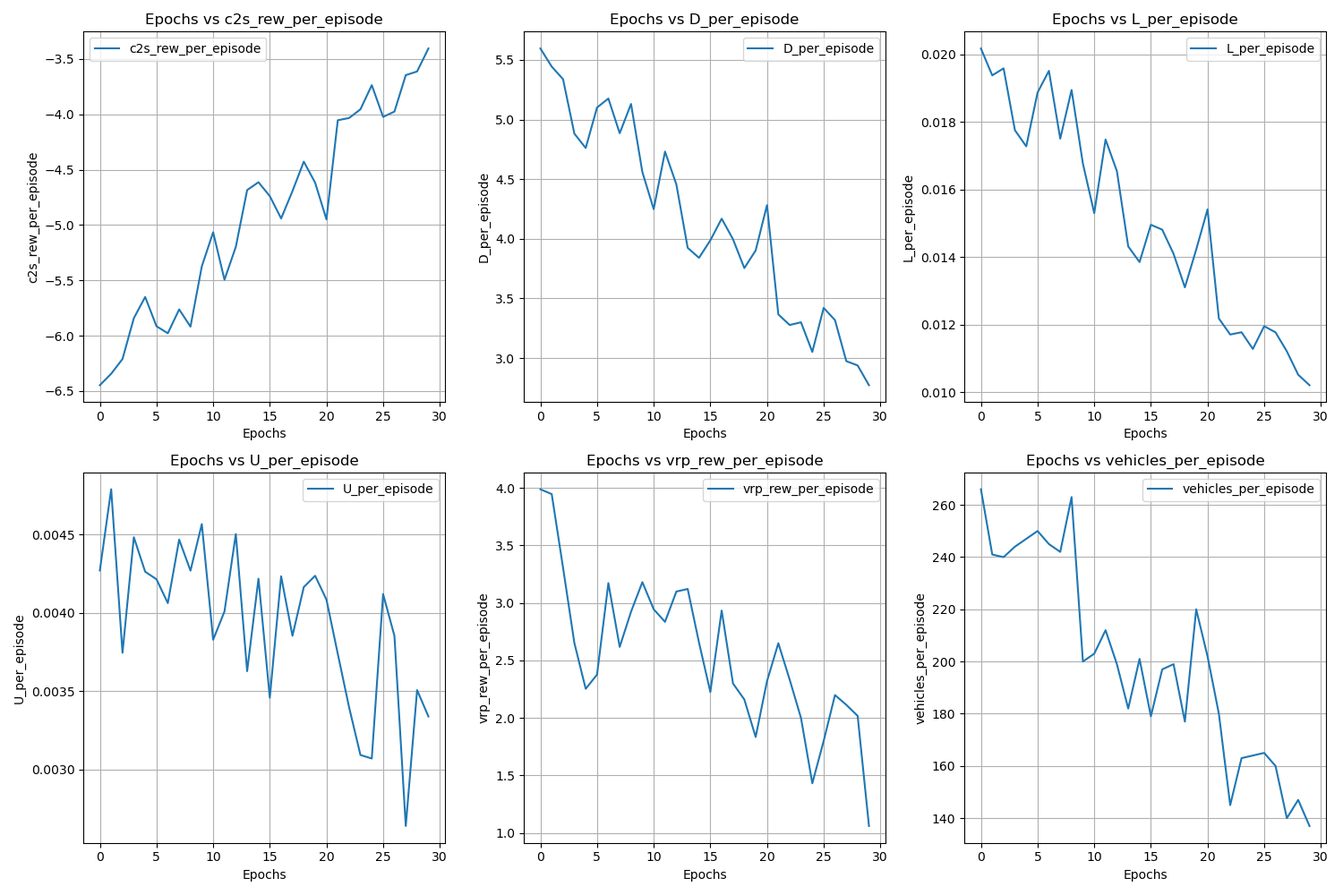
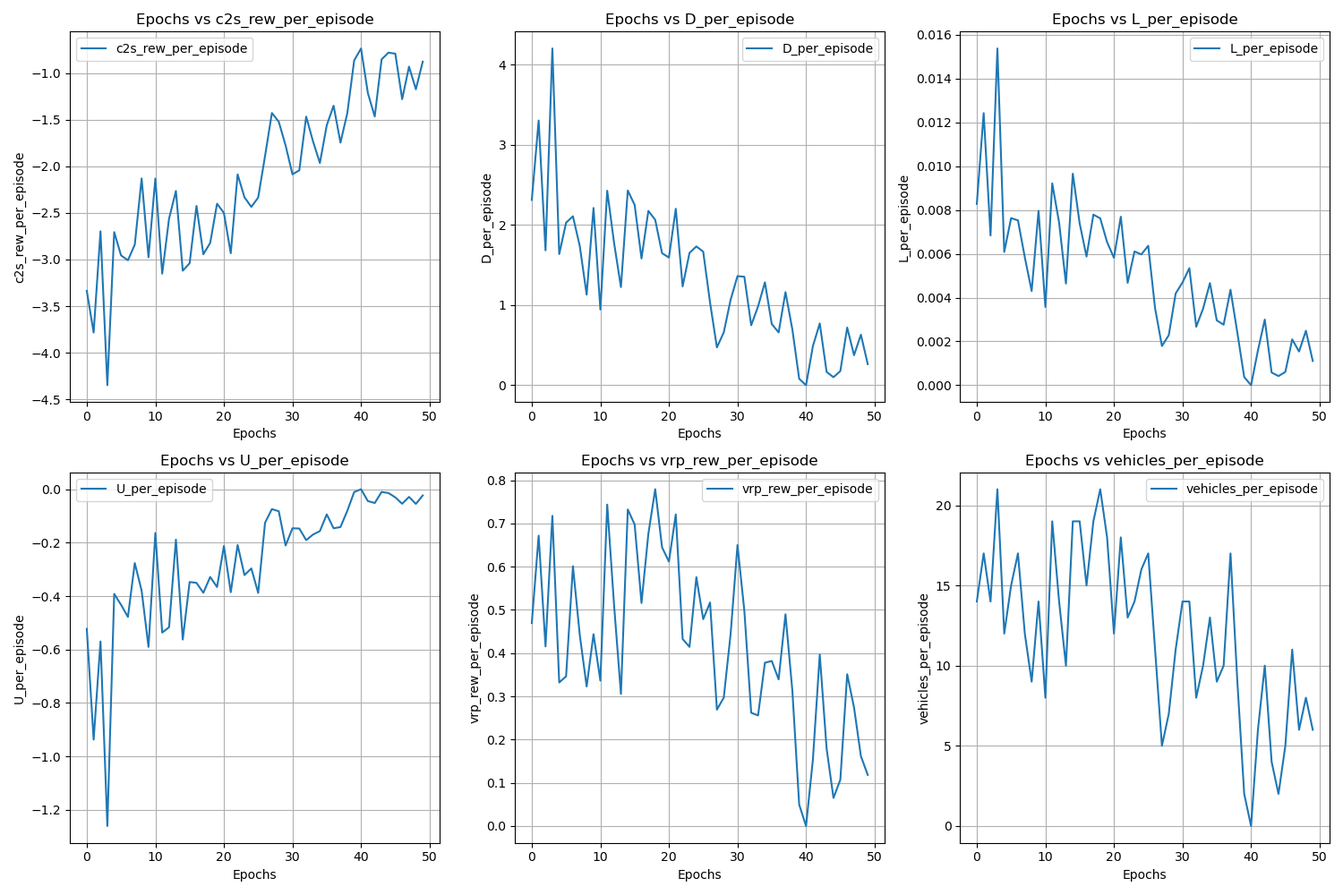
final

diff --git a/plot.py b/plot.py
@@ -1,0 +1,204 @@
+import matplotlib.pyplot as plt 
+import numpy 
+
+print("C2SH + VRPH")
+c2s_rew_per_episode = [-3.162630367619766, -3.2407676963637306, -3.0009457475327523, -3.1005535906284676, -3.1873993156752274, -2.995300601486081, -3.330222843246431, -3.095142324591123, -3.6133420755821577, -3.3577389008092893, -3.0096312562949437, -3.3936995252404594, -3.2246473267117963, -3.5164929230481605, -3.011219225377335, -3.305955325962298, -3.286128951226231, -3.3399424267894333, -3.240532132851378, -3.0577021384056122, -3.256329733691943, -3.405320990057903, -3.1290757320448224, -3.0318756235876374, -2.939793536497425, -3.560493628564977, -3.158396104697333, -3.1395430828238293, -3.309162286798654, -3.2395302056371316, -3.30637624863013, -3.1116976955692803, -2.9633513801924893, -3.173072943398223, -3.0649085990182545, -3.3857446713557318, -3.2728191885552773, -3.3061896406597824, -3.053017254985527, -3.312056858091136, -3.501115639939241, -3.0427370311665474, -3.09631489165307, -3.2306651221410285, -3.215846596042011, -3.163615889349381, -3.1479560857775946, -3.224693474639956, -3.0517348988910986, -3.4793669971031327, -3.519891949713456, -3.7205900379259247, -3.212280123798762, -3.205458565909891, -3.2823253996755506, -3.1852958009662293, -3.277517114281109, -3.0280069717311244, -3.36991299247783, -2.7999749138900927, -3.405470496727942, -3.2415967514374615, -3.2656222927193577, -3.5487494807589797, -3.0416751715725105, -3.4584761292397337, -3.2420898599112107, -3.1891143965415036, -3.226257153948134, -3.5413039739368095, -2.959373893845223, -3.4798620407664216, -3.518767533201962, -3.1603491933355152, -3.4016343542006546, -3.1135754456033813, -3.115949733855231, -3.614661491594746, -3.2847710242020502, -3.3133120187200737, -3.231484900089691, -3.2503187768847397, -3.1854385202981867, -3.1749190128765625, -2.943739813107796, -3.097180643041202, -3.029876574639335, -3.089315180314453, -2.936109897741627, -3.21727350377398, -3.125730823673346, -3.2275308005024628, -3.2434646040076713, -3.2719823106084944, -3.0802607606961114, -3.0845506845317865, -3.2678928368238394, -3.037849392675513, -3.5749487207924417, -3.3518220888801364, -3.398145173702514, -3.2164057551497818, -3.3605876793061333, -3.1071330852853003, -3.1909285523936544, -2.7710406679766906, -3.2430984396220794, -3.658772396310937, -3.247614360189714, -3.450655800490085, -3.0735188437128285, -3.118951682765243, -3.238133901474818, -3.251897101158714, -3.4245272655591235, -3.140831076211588, -3.5367601487022204, -3.269498265944607, -3.2541678308723383, -3.1705411588092063, -3.515348768476089, -3.2272652993206754, -3.2221127606409716, -3.2351614924047327, -3.110410066177699, -3.2795707801361638, -3.0521188729658433, -3.3544226210374988, -3.241335303063098, -3.07877203818081, -3.2879946004176466, -3.075647138791671, -3.3018647313895855, -3.3070252401336226, -3.397289105850245, -3.099114887314072, -2.9513423847410185, -3.2806969020368157, -3.4265727412641525, -3.323688033212865, -3.0895046284711087, -3.1981814140674087, -3.1843404422669743, -3.3354463748608856, -3.2726483006596196, -3.2833539010376724, -3.1469594788604978, -2.981882948126226, -3.1120196645364517, -2.848012063555627]
+D_per_episode = [2.3579900226261445, 2.471190721478164, 2.341752853374629, 2.4112738184883598, 2.4071641499787604, 2.3136784737777982, 2.511679108318298, 2.3460340548655934, 2.7204938674839627, 2.5387492337251247, 2.3405280285784804, 2.5882207019400827, 2.474820505700103, 2.6036947833366133, 2.215120976353625, 2.5397296581440676, 2.444546573053337, 2.447609945719332, 2.4370268348377015, 2.3923955320329124, 2.439308291426099, 2.4997498836189433, 2.399817137771752, 2.3005046068803687, 2.274186724546789, 2.6995153688580036, 2.348345192163319, 2.4315591335534936, 2.491769727649838, 2.4693756453087303, 2.4869406869622988, 2.3648614887047374, 2.2407744171203676, 2.316741262844392, 2.2750814098132244, 2.5398417438074756, 2.5181395374953612, 2.567574836180541, 2.349827117677945, 2.462072081162849, 2.7386233622319986, 2.2836909218847397, 2.41480132271185, 2.401783717178181, 2.5010924037425957, 2.3697799224158467, 2.424362807985148, 2.491218274332801, 2.3167194194193144, 2.6614457090019163, 2.725228706085193, 2.889324785709264, 2.486918357674201, 2.4575128790535676, 2.407723653575773, 2.3825131368320505, 2.572267157404702, 2.3229404316626168, 2.544213028678876, 2.1679859990494594, 2.5849968137316037, 2.4955591258078256, 2.33709868439797, 2.66014726518149, 2.3449330668593142, 2.5676431638905504, 2.4415381563662484, 2.426742234294575, 2.49839738926297, 2.6790836249797456, 2.286376275827415, 2.6266604794752264, 2.6562606462692733, 2.4024837659032023, 2.584371219663884, 2.2746528138049005, 2.39264889158448, 2.7431660681061567, 2.483681774704313, 2.5407180250479557, 2.506015751799432, 2.478438679630835, 2.4232766060849427, 2.411624291287974, 2.279748969087848, 2.428392262930503, 2.2568100530847532, 2.3837646767651632, 2.31732228877056, 2.4639220644720314, 2.378912957435368, 2.3731276849784955, 2.4289200058096503, 2.520505837453976, 2.3959950407305195, 2.4159234755304775, 2.46599012670768, 2.2440918710876616, 2.7492604656454334, 2.5087054324364493, 2.505768095723883, 2.429808121870719, 2.6038907709201466, 2.2894445434291226, 2.4239645151083966, 2.12313237999789, 2.463315878042631, 2.81408732780061, 2.4920429428253543, 2.6596919659048193, 2.3287565349477584, 2.3201811016196663, 2.4438699973034135, 2.509503731746262, 2.657769159489185, 2.336719119644439, 2.6783639750031494, 2.5024635363388876, 2.4750867702762727, 2.452413561321588, 2.7157105408875215, 2.4213157441497764, 2.476818417271306, 2.529638515947469, 2.3269681435441454, 2.5044906006846697, 2.3589625558351064, 2.6125838011382347, 2.428977046377359, 2.300392029694945, 2.463073569078941, 2.334812082932786, 2.557773681336477, 2.517222735389474, 2.5828823548708675, 2.3702848304087656, 2.2390559528798186, 2.540562688061441, 2.5934312974860547, 2.5301152916412737, 2.3191702019470037, 2.3851242760453064, 2.3366838335224145, 2.530591577614297, 2.5442737236454938, 2.514864416560465, 2.364630579322241, 2.2226114804785206, 2.3241734339536206, 2.1110687299041215]
+L_per_episode = [0.009826985465133383, 0.010305333558162062, 0.009636564375900946, 0.010077942059021945, 0.009934378373646968, 0.009585314668589133, 0.01037258240915483, 0.009798299819439072, 0.011110614246758684, 0.010647966944809104, 0.0096984890389258, 0.010536077577561268, 0.010317911257921284, 0.011042657118714749, 0.009057422801241997, 0.010211235076113118, 0.010301637546714756, 0.00984278777569641, 0.009861783726171077, 0.010103830960219166, 0.00993563434266774, 0.010297140843486794, 0.009745303842990615, 0.00965480913132293, 0.009325954430371406, 0.011499817409612666, 0.009644404731655967, 0.010071601316805028, 0.010368269984027824, 0.010104356916746667, 0.010440785189396066, 0.009834454064388874, 0.009136842307296465, 0.00937775494720225, 0.009208543802132336, 0.010621023877850926, 0.010487103541026593, 0.010472524732850126, 0.009726354707559733, 0.010552697518698554, 0.011213863514997256, 0.009145508254012849, 0.010050693214264644, 0.010116086937804648, 0.010484814810371109, 0.009679007982257902, 0.009952497752554666, 0.010134576499839164, 0.009424977483341054, 0.010886588720913614, 0.011220447065262122, 0.011959375335002211, 0.010549425674418928, 0.010072456220030121, 0.009942123073688847, 0.0098627139464264, 0.010933581491787595, 0.009538628385666614, 0.010537616917882969, 0.009226374358282514, 0.01076111660618289, 0.010409670696129057, 0.009979512139297745, 0.011253344492274404, 0.009639460022063636, 0.010589490950572012, 0.010105282996154449, 0.009905321083896503, 0.010107935662716838, 0.0112966718546922, 0.0096356292076279, 0.010914957185455583, 0.010614498279719836, 0.009810893348898954, 0.010649826613079155, 0.009330086372540044, 0.009937918712276365, 0.01098298007237494, 0.010316448454897523, 0.01069695974611299, 0.010020471720963518, 0.010029143233203868, 0.009836146073843071, 0.009788172792750294, 0.009142450841390308, 0.010215418837743729, 0.009365357172992592, 0.009918380382057404, 0.009539749922353832, 0.010514816272902412, 0.009603110891664561, 0.009993558754948922, 0.010127165881374058, 0.01046361843604461, 0.009987855289072893, 0.010209176830213941, 0.010106989141378172, 0.009004830342907, 0.01134067980236153, 0.010492460143753822, 0.010393271842471592, 0.010375246821826035, 0.01079049234985771, 0.009906283791663086, 0.009989927346932222, 0.008784794317634185, 0.010191531216814188, 0.01162356956390766, 0.010286772239034922, 0.010807422696371867, 0.009469641713783082, 0.009503334278919605, 0.009854471311181442, 0.010200913433840785, 0.010798169893193491, 0.009846990532666819, 0.011086956384769859, 0.010288143795739075, 0.010277399971481863, 0.00994130931633887, 0.011184455224583563, 0.009747462076262587, 0.010170499089234062, 0.01034710764218422, 0.009438617574949546, 0.010354033571282261, 0.009632843650672683, 0.01049996868853455, 0.009827682364257375, 0.009656425889455141, 0.009965904177252464, 0.009537606468554425, 0.010982494747354032, 0.010459430137882853, 0.010581052492772917, 0.009879073464331886, 0.009367980888610027, 0.010238372843745255, 0.010796232342848116, 0.010296660842404576, 0.009673856159756657, 0.009815874734732137, 0.009616533452192443, 0.010660401347490136, 0.010913610961307472, 0.010196404837633333, 0.009717813485716698, 0.009323404891343695, 0.009622133263508099, 0.00877738881311689]
+U_per_episode = [0.004243614931237728, 0.004693333333333343, 0.0038258736971183344, 0.0042401021711366595, 0.005823806321452596, 0.003634116192830661, 0.004306418219461703, 0.0034023285899094473, 0.005763688760806929, 0.004769759450171827, 0.004856230031948889, 0.004532019704433505, 0.004834307992202734, 0.005028089887640455, 0.005118110236220483, 0.0050136239782016395, 0.005281980742778551, 0.005827338129496412, 0.0055244755244755386, 0.004338235294117658, 0.0055677154582763405, 0.005513196480938428, 0.003918053777208712, 0.003881163084702912, 0.003962616822429911, 0.005708092485549142, 0.005553264604811004, 0.004188679245283022, 0.005277973258268834, 0.004390563564875499, 0.004496877168632894, 0.0045436893203883565, 0.004822784810126592, 0.004113283884018885, 0.0046714378659726795, 0.00493894165535957, 0.004303630363036308, 0.0052827586206896674, 0.004108910891089115, 0.004679665738161564, 0.00486600846262342, 0.004445893089960892, 0.004980842911877402, 0.004725568942436419, 0.004200000000000001, 0.003909090909090914, 0.004098573281452663, 0.005030425963488853, 0.004489003880983186, 0.005268292682926836, 0.0048743016759776586, 0.004837144837144845, 0.0045048543689320455, 0.004709719504240063, 0.005088589652728572, 0.004061869535978484, 0.004177545691906005, 0.005029163966299426, 0.004429160935350761, 0.004357272178636098, 0.00448924731182797, 0.005098305084745777, 0.004852411807055441, 0.005389657683903867, 0.003868159203980103, 0.005032537960954453, 0.00487316421895862, 0.004582524271844666, 0.004503916449086166, 0.004975404075896002, 0.004903064415259548, 0.00425326909841707, 0.005132997843278222, 0.0047831800262812165, 0.003919732441471578, 0.004920304920304926, 0.004510978043912176, 0.004894391842680269, 0.0049265220433869945, 0.004950495049504962, 0.00526675786593708, 0.00528043775649795, 0.005115970841616966, 0.0046953175112251526, 0.004630421502748934, 0.004372267332916932, 0.005112395632626851, 0.005263835263835271, 0.003987987987987993, 0.00398207426376441, 0.005439056356487554, 0.005134948096885818, 0.003941605839416059, 0.004138398914518325, 0.004616352201257867, 0.004591836734693884, 0.004467944481163257, 0.004762532981530353, 0.004890148830616587, 0.0049819494584837625, 0.0057305773342836855, 0.004345616264294799, 0.00438761776581427, 0.005362903225806463, 0.00540837336993824, 0.004715151515151527, 0.005071707953063894, 0.0049502133712660094, 0.004757475083056482, 0.0042498302783435206, 0.005240924092409246, 0.0044356955380577484, 0.005337078651685398, 0.005163826998689387, 0.005166553365057792, 0.004220183486238536, 0.004112961622013038, 0.004241245136186778, 0.003798297314996729, 0.0042235217673814215, 0.004312370421561858, 0.005461956521739135, 0.004973821989528805, 0.004110671936758897, 0.0046081714668452815, 0.00395411605937922, 0.004554326610279771, 0.00458815520762424, 0.004739010989010994, 0.005141727092946614, 0.004941338854382341, 0.004520000000000005, 0.004487427466150873, 0.005054347826086968, 0.004328462073764792, 0.0046997389033942615, 0.004734799482535581, 0.0054325955734406545, 0.004134154688569475, 0.0047457627118644135, 0.004678055190538771, 0.005136986301369871, 0.004791366906474825, 0.00451882845188285, 0.004031830238726794, 0.004590385917400145, 0.004621513944223115, 0.005146198830409365, 0.004890365448504992, 0.004512884978001265]
+vrp_rew_per_episode = [5.454437895654692, 6.241655737517728, 4.915695790393777, 6.263256175085191, 6.673081769002367, 5.859065789191391, 5.531686425603949, 6.041497307276736, 6.367923009605292, 5.936808108449581, 4.732962051942594, 7.375908068034003, 5.814045106115631, 6.183257667722438, 4.763615090387488, 5.67527286568163, 5.819832001195204, 5.415079319992749, 4.688352460045401, 5.419585899395544, 6.335491846810664, 5.599089840390708, 5.510215403415211, 6.033667325904917, 5.960342375651472, 5.4963339171605, 5.436111024767224, 5.532405068115441, 6.427917201100868, 5.9338930044152844, 6.270867518711436, 5.099164212061842, 5.190608767653319, 5.059811942347439, 4.666148715943472, 5.139030296824065, 6.545266803648817, 5.892959828329191, 5.9327058414173965, 6.831952117617057, 6.069193347864175, 6.237529308086849, 6.329620581839196, 4.588985781466269, 5.098319902473984, 4.7943804263427285, 5.741611985197042, 6.559724503067857, 5.631567160166879, 6.894726860487502, 5.277251525243881, 5.96000789635936, 4.959085970624709, 5.609010450904657, 5.599185596501452, 5.718362567014504, 6.871490124801307, 6.426786612910353, 5.800364480523984, 5.067439162069918, 5.834611595357253, 6.91748520546017, 4.4986020961969775, 6.501016667847575, 5.942915412898797, 6.585195407328373, 4.731629851458008, 5.573390666975291, 5.859553349257797, 6.7234251294735525, 5.768379691422224, 6.853174319911657, 5.707688287797578, 5.031946599380445, 4.361719413607879, 5.695118131400183, 6.331575193450607, 7.1830350986894045, 5.206251245015196, 7.714346832914958, 5.237819666274219, 4.948463121500378, 5.359860394643148, 5.551952707606181, 4.992139150184496, 4.661460370061771, 5.352867516773282, 6.939725345931448, 6.74234279710718, 5.690079252863349, 5.548889287107419, 6.467681674077379, 6.082239062680108, 5.1205151085288225, 6.304972496209057, 6.36538465603636, 6.101586102970268, 5.6755430891539564, 6.303845421863924, 5.227690514349861, 6.849444332551679, 5.590179149710734, 5.238789814971428, 4.581934358868174, 5.1706326389520925, 4.512195609241052, 6.112346716012358, 6.149859765761343, 5.300483171021818, 5.269344349146638, 5.451787000450364, 5.706378182011355, 5.54875617033823, 4.561690283804969, 6.584540456595993, 5.537596774289177, 6.005912686305565, 5.7437372933941315, 6.086777120762827, 6.0508943058528715, 5.278717803535965, 5.208436946857112, 5.889564543051061, 5.356947748189408, 5.824955456705752, 5.554819254652745, 5.618389672321094, 5.342432988382529, 6.106116803004573, 5.587292875721048, 5.446469366949648, 5.806782715833996, 5.896165012051091, 5.432243126798027, 5.576218145709868, 5.186537913815596, 5.435685165004012, 6.167143556577365, 5.784361094586532, 6.1144603582710015, 4.890558847602946, 5.146779529090432, 4.803618478523401, 4.982367224830999, 6.102976737049062, 5.077757097527036, 5.452610251636227, 5.716332150964836, 5.24476067464606, 5.598103993916434]
+vehicles_per_episode = [0.0, 0.0, 0.0, 0.0, 0.0, 0.0, 0.0, 0.0, 0.0, 0.0, 0.0, 0.0, 0.0, 0.0, 0.0, 0.0, 0.0, 0.0, 0.0, 0.0, 0.0, 0.0, 0.0, 0.0, 0.0, 0.0, 0.0, 0.0, 0.0, 0.0, 0.0, 0.0, 0.0, 0.0, 0.0, 0.0, 0.0, 0.0, 0.0, 0.0, 0.0, 0.0, 0.0, 0.0, 0.0, 0.0, 0.0, 0.0, 0.0, 0.0, 0.0, 0.0, 0.0, 0.0, 0.0, 0.0, 0.0, 0.0, 0.0, 0.0, 0.0, 0.0, 0.0, 0.0, 0.0, 0.0, 0.0, 0.0, 0.0, 0.0, 0.0, 0.0, 0.0, 0.0, 0.0, 0.0, 0.0, 0.0, 0.0, 0.0, 0.0, 0.0, 0.0, 0.0, 0.0, 0.0, 0.0, 0.0, 0.0, 0.0, 0.0, 0.0, 0.0, 0.0, 0.0, 0.0, 0.0, 0.0, 0.0, 0.0, 0.0, 0.0, 0.0, 0.0, 0.0, 0.0, 0.0, 0.0, 0.0, 0.0, 0.0, 0.0, 0.0, 0.0, 0.0, 0.0, 0.0, 0.0, 0.0, 0.0, 0.0, 0.0, 0.0, 0.0, 0.0, 0.0, 0.0, 0.0, 0.0, 0.0, 0.0, 0.0, 0.0, 0.0, 0.0, 0.0, 0.0, 0.0, 0.0, 0.0, 0.0, 0.0, 0.0, 0.0, 0.0, 0.0, 0.0, 0.0, 0.0, 0.0]
+customers_per_vehicle_per_episode = [0.0, 0.0, 0.0, 0.0, 0.0, 0.0, 0.0, 0.0, 0.0, 0.0, 0.0, 0.0, 0.0, 0.0, 0.0, 0.0, 0.0, 0.0, 0.0, 0.0, 0.0, 0.0, 0.0, 0.0, 0.0, 0.0, 0.0, 0.0, 0.0, 0.0, 0.0, 0.0, 0.0, 0.0, 0.0, 0.0, 0.0, 0.0, 0.0, 0.0, 0.0, 0.0, 0.0, 0.0, 0.0, 0.0, 0.0, 0.0, 0.0, 0.0, 0.0, 0.0, 0.0, 0.0, 0.0, 0.0, 0.0, 0.0, 0.0, 0.0, 0.0, 0.0, 0.0, 0.0, 0.0, 0.0, 0.0, 0.0, 0.0, 0.0, 0.0, 0.0, 0.0, 0.0, 0.0, 0.0, 0.0, 0.0, 0.0, 0.0, 0.0, 0.0, 0.0, 0.0, 0.0, 0.0, 0.0, 0.0, 0.0, 0.0, 0.0, 0.0, 0.0, 0.0, 0.0, 0.0, 0.0, 0.0, 0.0, 0.0, 0.0, 0.0, 0.0, 0.0, 0.0, 0.0, 0.0, 0.0, 0.0, 0.0, 0.0, 0.0, 0.0, 0.0, 0.0, 0.0, 0.0, 0.0, 0.0, 0.0, 0.0, 0.0, 0.0, 0.0, 0.0, 0.0, 0.0, 0.0, 0.0, 0.0, 0.0, 0.0, 0.0, 0.0, 0.0, 0.0, 0.0, 0.0, 0.0, 0.0, 0.0, 0.0, 0.0, 0.0, 0.0, 0.0, 0.0, 0.0, 0.0, 0.0]
+
+metrics = {
+    "c2s_rew_per_episode": c2s_rew_per_episode,
+    "D_per_episode": D_per_episode,
+    "L_per_episode": L_per_episode,
+    "U_per_episode": U_per_episode,
+    "vrp_rew_per_episode": vrp_rew_per_episode,
+    "vehicles_per_episode": vehicles_per_episode,
+    "customers_per_vehicle_per_episode": customers_per_vehicle_per_episode,
+}
+
+epochs = range(len(c2s_rew_per_episode))
+# Define the grid layout
+rows, cols = 2, 3
+fig, axes = plt.subplots(rows, cols, figsize=(15, 10))  # Adjust size as needed
+axes = axes.flatten()  # Flatten for easy indexing
+
+# Plot each metric in its respective subplot
+for ax, (metric_name, data) in zip(axes, metrics.items()):
+    ax.plot(epochs, data, label=metric_name, linewidth=1.5)
+    ax.set_xlabel("Epochs")
+    ax.set_ylabel(metric_name)
+    ax.set_title(f"Epochs vs {metric_name}")
+    ax.legend()
+    ax.grid(True)
+
+# Turn off any unused subplots
+for ax in axes[len(metrics):]:
+    ax.axis('off')
+
+# Adjust layout for better readability
+plt.tight_layout()
+
+# Save the figure
+plt.savefig("images/c2sh_vrph_subplots.png")
+plt.show()
+
+print("Figures saved successfully as 'images/metrics_2x3_subplots.png'.")
+print("Figures saved successfully as c2sh_vrph_{metric}.png for each metric.")
+
+
+print("C2SH + VRPL")
+c2s_rew_per_episode= [-1.660218917584172, -1.5623745761635757, -1.8519688459697825, -1.7170574351165886, -1.9065941718724826, -1.8695366290146356, -1.64637765566134, -1.8460450529436006, -1.6704544124635814, -2.2482540103833353, -1.5843369182372706, -1.8331516353242445, -1.792582616765706, -1.9964974823675763, -1.760996326791958, -1.6621014016279119, -1.6491592466814662, -2.0488060936824977, -1.6522878686750857, -2.2008881491304164, -1.6449720874002018, -1.8543124260417705, -1.8041148504995241, -1.8288901312004948, -1.5944202887144376, -1.6851579775923486, -1.7716723087898711, -1.7989986367425197, -1.9669722568442052, -1.7708226829146771, -1.5403990881467937, -1.5075524509967033, -1.661559812982271, -1.887465408007674, -1.5741862962052722, -1.948699494695201, -1.637621425974046, -1.695498960544628, -1.8851837742459998, -1.5592743535364681, -1.4971747030647018, -1.6655647468176125, -1.9038052310595597, -1.7757383491120564, -1.629870681498749, -1.992419176565783, -1.8260040151711603, -1.8773686825535603, -1.8723099762355013, -1.724841196325081, -1.6616788546759533, -2.0015994560925443, -1.745185371538779, -1.6390801717595334, -2.219113548708571, -1.961635968172974, -1.536540371872848, -1.790125066985544, -1.6461535978270052, -1.5475747117017222, -1.6553113011632763, -1.7373462024704558, -1.7864846010530766, -1.8461415993338774, -1.8062894006885788, -1.5830891398069014, -1.9786039146349566, -1.9927441256345833, -1.993650696190505, -1.5940514815796598, -1.8438998658379546, -1.8647159345689375, -1.6563027639028696, -1.5748303896561318, -1.685785233709603, -1.7475228334250925, -1.689909680618214, -1.6845951610464254, -1.6638574529249408, -1.998772531062223, -2.1423381376624784, -1.9727965979432447, -1.7648981222651887, -1.8738198475976229, -2.0316343912479913, -1.9067194716122065, -1.8240487696485839, -1.8236470531689233, -1.7536867622019716, -1.794097945471186, -1.8609513375934577, -1.5260046997629488, -1.9527916220568868, -1.9595153126723233, -1.6617291150487854, -2.158863298172992, -1.7534806483120569, -1.750714644703001, -1.711400415732647, -1.9205162616784026]
+D_per_episode= [0.5892438357438495, 1.1244535202829489, 1.16664420987781, 0.9923545976351006, 1.5911088047182789, 1.4186972328103271, 1.054598992498646, 1.5577996877925915, 0.9360142661765535, 1.8191465564691813, 1.2524912838851234, 1.3506039491873023, 0.984709702957546, 1.6535170484545993, 1.4292512161655515, 1.1578769320295075, 1.1355836699780113, 1.6347419572078938, 1.1262804465737983, 1.67751997790424, 1.0955969114288107, 1.3421017843851692, 1.4460825793435472, 1.3129145324250515, 0.8531308310925215, 0.9127771563753244, 1.2531903315866126, 1.1690875915195478, 1.643001488793482, 1.2680431073999523, 1.0134084633363143, 0.550893646886122, 1.1680400100641393, 1.5670113075001508, 0.8558791965553908, 1.256817517786493, 1.1217052514928967, 1.0328652884263496, 1.313975479743799, 0.8458281339649792, 1.0880044469529362, 1.317241371775576, 1.56842680508689, 1.4508166402002063, 1.1930287323788715, 1.6251508966524184, 1.4961910926825552, 1.8146972292350458, 1.4609889665755669, 1.1924924538438793, 0.9820827911040452, 1.5901936295048984, 1.1811370397682304, 0.8543744459734605, 1.8486769542107933, 1.5204724166279227, 0.2944867347146648, 1.2406657723083596, 1.0926582563300196, 0.8510735586944795, 0.8632551171367073, 0.9683029293993419, 0.9264610549595197, 1.4774187175839149, 1.236825527354704, 0.8931171246268071, 1.8163250358128125, 1.6657864844117989, 1.5646490396040957, 0.7802529535023199, 1.564464646475161, 1.644800854487947, 1.2573651957857264, 1.1009485706886828, 1.426436035044735, 1.0818919771507345, 1.1915183125884787, 1.0911426009782876, 1.167277261426913, 1.7038896052426016, 1.6918572135228185, 1.65919077659602, 1.4267035719300762, 1.0688206102896567, 1.282449185308519, 1.5592323104928643, 1.2295125411418337, 1.28961596968633, 1.0170918027772236, 1.1710605935733196, 1.4266239230344238, 0.9123379125549377, 1.4388568586924055, 1.13019310329507, 1.1324375302373642, 1.5187425494440836, 1.4420238548612718, 1.2344064513464856, 0.948774265869613, 1.2783394756962652]
+L_per_episode= [0.0025839215039575487, 0.005274397103286925, 0.005254608080768044, 0.004678235247457136, 0.007313975503208034, 0.006899460649876664, 0.0050215589302404166, 0.006746302523269044, 0.0043264998495493884, 0.008303907316784782, 0.005705919552882026, 0.005850666002467437, 0.00421898779311961, 0.00694445113328006, 0.006377252759801803, 0.005436052275133692, 0.005410549283886015, 0.007863628533249215, 0.005087023929601684, 0.007826779330472192, 0.005205888111184394, 0.006276087107646715, 0.006547115032601027, 0.0059555397297836815, 0.004064194496236112, 0.004265823529447324, 0.005802725581801411, 0.005272426406551114, 0.007845723110108654, 0.0058951150668551, 0.004888774375286426, 0.002507711198039053, 0.005566112776442398, 0.007113276818927235, 0.004052328616847268, 0.005581726425880522, 0.005405724554059413, 0.0049428697699421785, 0.006248028576158726, 0.003775330258502143, 0.005041974389534222, 0.006186774437459486, 0.007124121728560008, 0.006576702649108835, 0.005755349380300456, 0.00743790223566413, 0.006882647440395089, 0.008085916556309261, 0.006842883459069771, 0.0053838963164227534, 0.004274657532623767, 0.006937492483031327, 0.0053390396357944825, 0.003909767937232525, 0.008385571193959922, 0.007272651987569591, 0.001451309985014088, 0.005682698932503103, 0.00512528687922667, 0.0039797339070734, 0.004140925236350852, 0.004389074357806169, 0.004161909992437443, 0.006969264305167597, 0.005650722284857864, 0.003974785017859678, 0.009089689632955061, 0.008149963122449238, 0.007345952036197233, 0.0037560466726292998, 0.007356040350411763, 0.007668124401989567, 0.005846409789521491, 0.005060255180891712, 0.006834672085331085, 0.004924071371704688, 0.005877878330167452, 0.00495323299997742, 0.005615528739450572, 0.007705863898644483, 0.00817157455643298, 0.007935126640977803, 0.006715834593406462, 0.005060389771876945, 0.005617971256611648, 0.007434082763876924, 0.005667811698491416, 0.005761626131716947, 0.004350621744583305, 0.005846001789467578, 0.0063329342706702155, 0.0042012576164821725, 0.006214258898447048, 0.0051700723936455315, 0.005289647400174511, 0.00635035125950708, 0.00662572923801707, 0.005536960060838722, 0.004217739132032619, 0.006389551939583961]
+U_per_episode=[-0.3626159169550168, -0.7190207156308832, -0.736316526610643, -0.5936086662153016, -1.0328251748251769, -0.8337967914438487, -0.6921507472384644, -0.8622593068035981, -0.4962524654832342, -1.016751879699246, -0.8038485412787082, -0.7767592592592611, -0.546367403314917, -0.9001176470588227, -0.8235166163141965, -0.7618551117129335, -0.7488139987038211, -1.006935832732517, -0.6617699115044227, -0.9658660508083139, -0.7332165206508134, -0.8101683501683503, -0.9404474576271159, -0.8018508655126514, -0.537522349936144, -0.5675265957446802, -0.8286732673267329, -0.7625070821529737, -0.9477573278800291, -0.8006262491672219, -0.6963194888178916, -0.3142398973701087, -0.7894687289845341, -0.9979651941097687, -0.5569010416666668, -0.6987590187590195, -0.7263436692506421, -0.6327201565557741, -0.719947124917385, -0.5146341463414631, -0.7418507462686577, -0.8287021943573663, -0.9524345549738227, -0.8474772036474152, -0.8288859416445634, -0.9289122807017488, -0.9096842105263171, -1.1708461025982657, -0.8811323238973019, -0.6838607594936704, -0.5554169318905163, -0.9393627118644119, -0.7125557680050963, -0.5064562787639719, -0.995386759581879, -0.9066075085324256, -0.2131964407939769, -0.7588829787234044, -0.7611788079470185, -0.5383908045977013, -0.5492551087673029, -0.5713067027758985, -0.6043902439024401, -0.908988015978697, -0.7868062120189042, -0.5752405388069295, -1.1432972972972935, -0.9751373074346983, -0.9267543252595207, -0.490905432595574, -0.98425447316103, -0.985469439193445, -0.9073886223440726, -0.7282795698924773, -0.9669752694990443, -0.6612525527569769, -0.7733815789473679, -0.7133910726182543, -0.7715700325732906, -0.9866666666666664, -0.9666527487821883, -0.9380746561886086, -0.8896873005743459, -0.5713008130081307, -0.7092640692640677, -1.0443508287292813, -0.7538960162052638, -0.7879015721121002, -0.6836787920384351, -0.7364502762430947, -0.8447229551451235, -0.544436363636363, -0.72815894039735, -0.6446428571428565, -0.7203826530612264, -0.82834553440703, -0.8875608234560186, -0.8005459387483362, -0.5962261669953973, -0.7791063829787209]
+vrp_rew_per_episode= [0.4616863836967505, 0.8379045388148881, 0.7725716802226049, 0.7141927535570878, 1.1596143195848918, 0.8773727304812668, 0.7605074942884497, 1.2428741082055994, 0.658535701022896, 1.0600283839908706, 1.1475972483131345, 1.0141884392627947, 0.7670903532616297, 1.1351872500997928, 1.1641726846383267, 1.10026440378289, 0.8212703772914904, 0.9723378254812983, 0.8863508560013702, 1.336349250075941, 0.6220146041831263, 0.9527728308628381, 1.0204238564220367, 0.8091619921506474, 0.7627680815895262, 0.7031218270099837, 0.6470961110906621, 0.7747245083612209, 1.1285643976466557, 0.9221821961794248, 0.7528905821216604, 0.529877857536312, 0.9313663756655277, 0.9481001385819665, 0.7868200717730539, 1.063394884405496, 0.7119721384406563, 0.8837561110183921, 0.7848267582712392, 0.5838781577686686, 0.7434878380829718, 1.0606149502715951, 0.840920193426655, 0.9770318326840931, 0.7412648373231251, 1.2943564124652556, 0.9509399888228753, 1.2021754873016532, 0.9813177583311994, 0.9110724431244293, 0.3881643002617889, 1.1675082599803344, 0.9915377489698439, 0.6141643168708694, 1.0433145513738735, 1.0991233308467787, 0.22757923975405533, 1.04956131373736, 0.8082568692617418, 0.47210111002439403, 0.5395773067984115, 0.6010842187134666, 0.5638538560068235, 1.4406174473376712, 0.6637069320428102, 0.7548879896968768, 1.0301182370812911, 1.3944693872802605, 1.2638980544284402, 0.6380714272159657, 0.9225750355191599, 1.224833072182801, 1.0570384778578021, 0.8815621415965753, 0.9735916210753703, 0.6540918830570608, 1.0148060837043282, 0.9489941256546105, 0.9624440081478743, 1.2411911762288228, 1.2211763400220064, 1.2135392928935305, 1.009095137875263, 0.7660148637478662, 0.9182266661961046, 1.0348193077050964, 0.9141817572686133, 0.7396596301719919, 0.5331949516501375, 1.0739918421828176, 0.9834448312526638, 0.4834383997560958, 0.7393756674767984, 0.7353751991284446, 0.7476864414530086, 0.8552731298254385, 0.9536809559846148, 0.8843720850171823, 0.650824637024197, 0.7911303270905944]
+vehicles_per_episode= [9, 15, 15, 12, 17, 20, 14, 21, 12, 18, 19, 14, 12, 19, 21, 14, 14, 19, 17, 21, 13, 14, 19, 13, 12, 10, 13, 14, 24, 14, 13, 8, 14, 16, 11, 16, 13, 14, 16, 11, 14, 19, 19, 19, 14, 20, 19, 22, 19, 17, 11, 17, 17, 11, 18, 20, 3, 14, 13, 11, 11, 11, 11, 20, 13, 11, 20, 24, 20, 11, 16, 24, 16, 14, 17, 14, 14, 15, 13, 21, 19, 20, 19, 12, 16, 18, 15, 14, 9, 13, 19, 11, 14, 12, 14, 14, 19, 15, 11, 14]
+customers_per_vehicle_per_episode=[122, 233, 233, 190, 296, 278, 227, 302, 170, 290, 283, 238, 173, 295, 301, 231, 229, 300, 242, 286, 238, 244, 295, 242, 177, 172, 247, 221, 333, 239, 222, 114, 236, 293, 174, 229, 226, 222, 248, 173, 245, 292, 308, 297, 243, 294, 296, 373, 288, 242, 182, 291, 254, 170, 299, 293, 58, 239, 236, 176, 176, 174, 178, 298, 235, 186, 355, 343, 302, 161, 293, 352, 270, 216, 298, 218, 238, 229, 236, 316, 308, 314, 306, 186, 239, 317, 236, 239, 179, 219, 290, 188, 224, 186, 227, 229, 306, 246, 187, 219]
+metrics = {
+    "c2s_rew_per_episode": c2s_rew_per_episode,
+    "D_per_episode": D_per_episode,
+    "L_per_episode": L_per_episode,
+    "U_per_episode": U_per_episode,
+    "vrp_rew_per_episode": vrp_rew_per_episode,
+    "vehicles_per_episode": vehicles_per_episode,
+    "customers_per_vehicle_per_episode": customers_per_vehicle_per_episode,
+}
+
+epochs = range(len(c2s_rew_per_episode))
+
+
+# Define the grid layout
+rows, cols = 2, 3
+fig, axes = plt.subplots(rows, cols, figsize=(15, 10))  # Adjust size as needed
+axes = axes.flatten()  # Flatten for easy indexing
+
+# Plot each metric in its respective subplot
+for ax, (metric_name, data) in zip(axes, metrics.items()):
+    ax.plot(epochs, data, label=metric_name, linewidth=1.5)
+    ax.set_xlabel("Epochs")
+    ax.set_ylabel(metric_name)
+    ax.set_title(f"Epochs vs {metric_name}")
+    ax.legend()
+    ax.grid(True)
+
+# Turn off any unused subplots
+for ax in axes[len(metrics):]:
+    ax.axis('off')
+
+# Adjust layout for better readability
+plt.tight_layout()
+
+# Save the figure
+plt.savefig("images/c2sh_vrpl_subplots.png")
+plt.show()
+
+print("Figures saved successfully as 'images/metrics_2x3_subplots.png'.")
+
+print("Figures saved successfully as c2sh_vrph_{metric}.png for each metric.")
+
+print("C2SL + VRPH")
+c2s_rew_per_episode= [-6.447630981940604, -6.344004927222368, -6.210876052908156, -5.841724221799326, -5.650485450689038, -5.914794307015386, -5.978185728097236, -5.762907440333377, -5.918503271937991, -5.373686619496246, -5.065884800317386, -5.494927446987352, -5.197902161038549, -4.6847006164253076, -4.613779631880995, -4.739399279095639, -4.941043318712206, -4.6941347888171725, -4.427844466314241, -4.61761858755428, -4.949998967146703, -4.053921985437722, -4.033699341254711, -3.955083501752225, -3.737122149269223, -4.023639489405323, -3.9756977775148976, -3.6464644643743576, -3.6131963432046854, -3.405447946813812]
+D_per_episode= [5.595610127639333, 5.443591704404763, 5.33775089462655, 4.881469158877432, 4.761007565093398, 5.1005322070201995, 5.175841445231788, 4.885125158545552, 5.130522593155474, 4.559730360305324, 4.248221687406522, 4.7309710592751815, 4.456029699283882, 3.924161469514863, 3.8403488031379083, 3.98721609899845, 4.168412285286737, 3.99623619894966, 3.7541858309535643, 3.902056323480275, 4.282142375080018, 3.3658481176480763, 3.2771664449883153, 3.29965323038034, 3.0512227131886176, 3.4204263218781557, 3.3181597711330055, 2.9739849646640026, 2.9380266770709356, 2.7721935126043964]
+L_per_episode= [0.0201789047817903, 0.01938188480979689, 0.019589302583840954, 0.017757472121171756, 0.017279192556733217, 0.018875159709144287, 0.019516015285596808, 0.017507981921088978, 0.018950134250551875, 0.01676786349231941, 0.01530239799853737, 0.01748195688281636, 0.016545711097543284, 0.014315864393831543, 0.01385320693283551, 0.014956741557649178, 0.014812986951675555, 0.014096777951607636, 0.013104379657899793, 0.014223112219888537, 0.015412764498800958, 0.012181309892946692, 0.011707216960477426, 0.011773927229531985, 0.01127970640777419, 0.011954351361239297, 0.011771097876344153, 0.011208985769954561, 0.010516973362274463, 0.010205576784352337]
+U_per_episode= [0.00427027027027028, 0.0047891566265060295, 0.003744798890429961, 0.004482758620689664, 0.004262508122157249, 0.004214046822742481, 0.004061869535978483, 0.004467398321497746, 0.004269254093389939, 0.004566691785983425, 0.0038280725319006074, 0.004008468595624563, 0.00450292397660819, 0.003627240143369178, 0.00421794871794872, 0.0034576271186440694, 0.00423317140874393, 0.003853211009174317, 0.004164345403899726, 0.004236453201970447, 0.004084321475625827, 0.003737704918032788, 0.003395963813500346, 0.0030917254650416927, 0.0030693069306930703, 0.004119601328903659, 0.0038525730180806682, 0.002638297872340425, 0.0035064059339177363, 0.0033378016085790886]
+vrp_rew_per_episode=[3.9877974807021026, 3.9456195495741158, 3.3055915281350026, 2.650546407433503, 2.2523721501032865, 2.3758098940550094, 3.1714961814238185, 2.616751935593847, 2.922670337937424, 3.180021028496909, 2.9439561682089823, 2.8347060027480735, 3.098003323907256, 3.1207743222374167, 2.6540502670091897, 2.224628445020349, 2.9329557658605254, 2.298614384854079, 2.159440520332297, 1.8335047679680065, 2.3186588862631594, 2.6487958163947822, 2.3327536321094455, 1.9988636574743706, 1.4304378784242862, 1.7979362854779612, 2.197950975621727, 2.1128954805641644, 2.0171085328594414, 1.0592067923924775]
+vehicles_per_episode=[266, 241, 240, 244, 247, 250, 245, 242, 263, 200, 203, 212, 199, 182, 201, 179, 197, 199, 177, 220, 202, 180, 145, 163, 164, 165, 160, 140, 147, 137]
+customers_per_vehicle_per_episode= [445, 384, 405, 393, 375, 397, 401, 378, 433, 327, 333, 350, 319, 289, 309, 304, 320, 311, 277, 323, 328, 270, 236, 265, 253, 258, 243, 226, 227, 208]
+
+import matplotlib.pyplot as plt
+
+# Metrics data
+metrics = {
+    "c2s_rew_per_episode": c2s_rew_per_episode,
+    "D_per_episode": D_per_episode,
+    "L_per_episode": L_per_episode,
+    "U_per_episode": U_per_episode,
+    "vrp_rew_per_episode": vrp_rew_per_episode,
+    "vehicles_per_episode": vehicles_per_episode,
+    "customers_per_vehicle_per_episode": customers_per_vehicle_per_episode,
+}
+
+# Number of epochs
+epochs = range(len(c2s_rew_per_episode))
+
+# Define the grid layout
+rows, cols = 2, 3
+fig, axes = plt.subplots(rows, cols, figsize=(15, 10))  # Adjust size as needed
+axes = axes.flatten()  # Flatten for easy indexing
+
+# Plot each metric in its respective subplot
+for ax, (metric_name, data) in zip(axes, metrics.items()):
+    ax.plot(epochs, data, label=metric_name, linewidth=1.5)
+    ax.set_xlabel("Epochs")
+    ax.set_ylabel(metric_name)
+    ax.set_title(f"Epochs vs {metric_name}")
+    ax.legend()
+    ax.grid(True)
+
+# Turn off any unused subplots
+for ax in axes[len(metrics):]:
+    ax.axis('off')
+
+# Adjust layout for better readability
+plt.tight_layout()
+
+# Save the figure
+plt.savefig("images/c2sl_vrph_subplots.png")
+plt.show()
+
+print("Figures saved successfully as 'images/metrics_2x3_subplots.png'.")
+
+
+print("C2SL + VRPL")
+c2s_rew_per_episode= [-3.336209722042427, -3.7833674672114475, -2.6979833542396157, -4.348395429219181, -2.7065638797467417, -2.956567950955408, -3.0086790169595727, -2.841032344816487, -2.1312148834134588, -2.9766012882701256, -2.132193326601875, -3.152029869692377, -2.5617181882567177, -2.2652889854983767, -3.120469345492237, -3.0406648994841605, -2.42614881648336, -2.9441044688043148, -2.822353922016606, -2.4017107147241443, -2.5014246083515994, -2.9330464848250353, -2.0873226702568504, -2.333673663427011, -2.4361572644917837, -2.3359183470848506, -1.8905023282892017, -1.4295288652489686, -1.5229010264086829, -1.777544746516336, -2.0868677754669904, -2.043675428326535, -1.4680691992121784, -1.7340320436405139, -1.9656317059916326, -1.5612164800494188, -1.3510222014299504, -1.7469606447042172, -1.4305328549256517, -0.8659119825615008, -0.7372719197707728, -1.2164409799013787, -1.4670532762135524, -0.8541235409058017, -0.7820390611323568, -0.7932579673655634, -1.2808028704752878, -0.9320993618704456, -1.1746849114219744, -0.8782424065467808]
+D_per_episode= [2.312223718299983, 3.302999158192409, 1.6826343017724175, 4.20161305010856, 1.6357954981974903, 2.0282075506871644, 2.107777129193745, 1.7348502307291196, 1.1300446447828438, 2.211350267298557, 0.9446846303815685, 2.4264475279286177, 1.7752702753016991, 1.2241043919315144, 2.4296605895139742, 2.24886556752372, 1.5813673301559426, 2.174767837106291, 2.0632758977460774, 1.647274739007398, 1.5928904843719613, 2.2012757226730235, 1.2330544645694457, 1.6506654385429038, 1.7319279432909702, 1.6665446512008875, 1.03008859338809, 0.47165298359502045, 0.6594864498528514, 1.0663926967747144, 1.3614217993375644, 1.3531778568121025, 0.7478643758735378, 0.9831474098504105, 1.2838668387234335, 0.7633871409791116, 0.6588327290988909, 1.1614947832826756, 0.6970291297352089, 0.07993777992918671, 0.0, 0.4881753039900623, 0.770975483406922, 0.16608766530957172, 0.09991968836476406, 0.17591177768754188, 0.7197287524976155, 0.3748844454972179, 0.630314424109067, 0.26334066188756144]
+L_per_episode=[0.008279162688088457, 0.0124244039459285, 0.0068365941900618244, 0.015376563810091315, 0.00608686077964489, 0.00763024562918187, 0.007526964231093369, 0.005840590596008883, 0.004300868518313124, 0.007962802990751087, 0.0035752390071041107, 0.009217130561421986, 0.007429327902055029, 0.004641269871595736, 0.009657821175433514, 0.007389290254832891, 0.005874465398017245, 0.007789610491738268, 0.007620172689661102, 0.006535776683707921, 0.005817748693433648, 0.007693373760045948, 0.0046752205505532, 0.00610764078714755, 0.005973268180000762, 0.0063685769974198515, 0.0035160694810959193, 0.0017889449291870752, 0.002287041404030445, 0.004186158309438858, 0.004692166071549013, 0.005344872548076551, 0.002669606582715629, 0.0034935362162090166, 0.004663592350674878, 0.002958499028990352, 0.0027652263344167356, 0.004359808263415378, 0.0023957536425652593, 0.0003738334693957697, 0.0, 0.0015866321061893617, 0.0029989442574241596, 0.000579575947869354, 0.000416578627077287, 0.0006083399206000303, 0.0020927694293558377, 0.001538675156438384, 0.002487061141861968, 0.0011066288420517845]
+U_per_episode= [-0.522565480188046, -0.9370773638968464, -0.5697869507323575, -1.2604363124560156, -0.39175494575622255, -0.4326344827586198, -0.47799256505576243, -0.2760838150289017, -0.37961665565102465, -0.5900273972602738, -0.1638471673254282, -0.5365188172042996, -0.5165455628350207, -0.18847507331378308, -0.562529335071707, -0.3472830905636488, -0.3503207810320783, -0.38744394618834066, -0.32820547945205447, -0.3660583016476554, -0.2124544179523143, -0.38539765319426295, -0.2086077558804828, -0.32129077029840386, -0.29637113402061793, -0.3880072683222288, -0.12545833333333317, -0.07420640569395018, -0.08232587064676618, -0.21059635907093507, -0.14599267399267415, -0.14709366391184575, -0.1904670505438261, -0.16956301456618125, -0.15655969191270838, -0.09412742382271469, -0.14608978529603123, -0.14147859922178982, -0.08062015503875967, -0.010441988950276242, 0.0, -0.04432394366197182, -0.05151186440677964, -0.01005188067444877, -0.014096796182685755, -0.030476190476190483, -0.054211956521739116, -0.028647925033467192, -0.054879032258064474, -0.023182441700960208]
+vrp_rew_per_episode=[0.4696046070550416, 0.6716661073628797, 0.41553396644034607, 0.7175513526294439, 0.33198933084833937, 0.34630497489742784, 0.6010474232301893, 0.44152290120042165, 0.32271499985492913, 0.4437241337269717, 0.33636503953469926, 0.7435093361172493, 0.5107289476316653, 0.3053943558509384, 0.7322624122677273, 0.6975864102956602, 0.5159241503695904, 0.6757164764467564, 0.7790148186463005, 0.6445123760640548, 0.611669459084812, 0.7208015246510894, 0.43265510194011964, 0.4143343899972919, 0.5755523740453479, 0.47851641364817743, 0.5170876338212238, 0.2691499002114842, 0.2970975833543629, 0.44450147317478644, 0.6498354314834732, 0.49807952466173894, 0.26194153787309593, 0.2557486137671844, 0.3776448707591217, 0.3818048446094924, 0.3391374673330058, 0.48973158697461694, 0.31373542035826907, 0.049470543549879044, 0.0, 0.15378061979553195, 0.3965187266649759, 0.17905534495451253, 0.06494312132651596, 0.10693813180048069, 0.3511481088109247, 0.2739532765522977, 0.1615974704045614, 0.11811042567645239]
+vehicles_per_episode=[14, 17, 14, 21, 12, 15, 17, 12, 9, 14, 8, 19, 14, 10, 19, 19, 15, 19, 21, 18, 12, 18, 13, 14, 16, 17, 11, 5, 7, 11, 14, 14, 8, 10, 13, 9, 10, 17, 9, 2, 0, 6, 10, 4, 2, 5, 11, 6, 8, 6]
+customers_per_vehicle_per_episode= [191, 292, 226, 367, 162, 196, 231, 133, 168, 224, 87, 245, 219, 118, 274, 204, 178, 230, 217, 216, 130, 215, 149, 182, 165, 206, 106, 55, 66, 138, 123, 119, 104, 127, 130, 85, 104, 128, 81, 18, 0, 49, 74, 25, 20, 37, 70, 38, 63, 43]
+
+# Metrics data
+metrics = {
+    "c2s_rew_per_episode": c2s_rew_per_episode,
+    "D_per_episode": D_per_episode,
+    "L_per_episode": L_per_episode,
+    "U_per_episode": U_per_episode,
+    "vrp_rew_per_episode": vrp_rew_per_episode,
+    "vehicles_per_episode": vehicles_per_episode,
+    "customers_per_vehicle_per_episode": customers_per_vehicle_per_episode,
+}
+
+# Number of epochs
+epochs = range(len(c2s_rew_per_episode))
+
+# Define the grid layout
+rows, cols = 2, 3
+fig, axes = plt.subplots(rows, cols, figsize=(15, 10))  # Adjust size as needed
+axes = axes.flatten()  # Flatten for easy indexing
+
+# Plot each metric in its respective subplot
+for ax, (metric_name, data) in zip(axes, metrics.items()):
+    ax.plot(epochs, data, label=metric_name, linewidth=1.5)
+    ax.set_xlabel("Epochs")
+    ax.set_ylabel(metric_name)
+    ax.set_title(f"Epochs vs {metric_name}")
+    ax.legend()
+    ax.grid(True)
+
+# Turn off any unused subplots
+for ax in axes[len(metrics):]:
+    ax.axis('off')
+
+# Adjust layout for better readability
+plt.tight_layout()
+
+# Save the figure
+plt.savefig("images/c2sl_vrpl_subplots.png")
+plt.show()
+
+print("Figures saved successfully as 'images/metrics_2x3_subplots.png'.")
